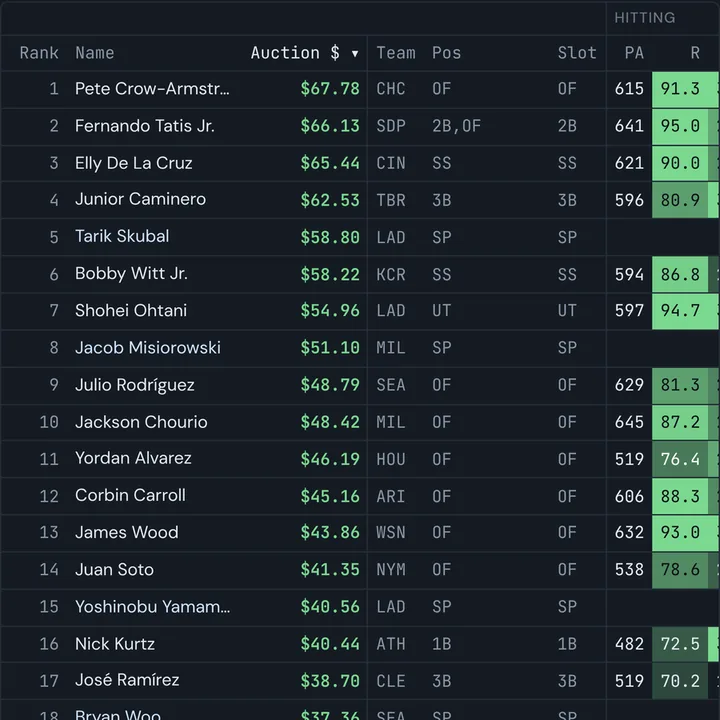
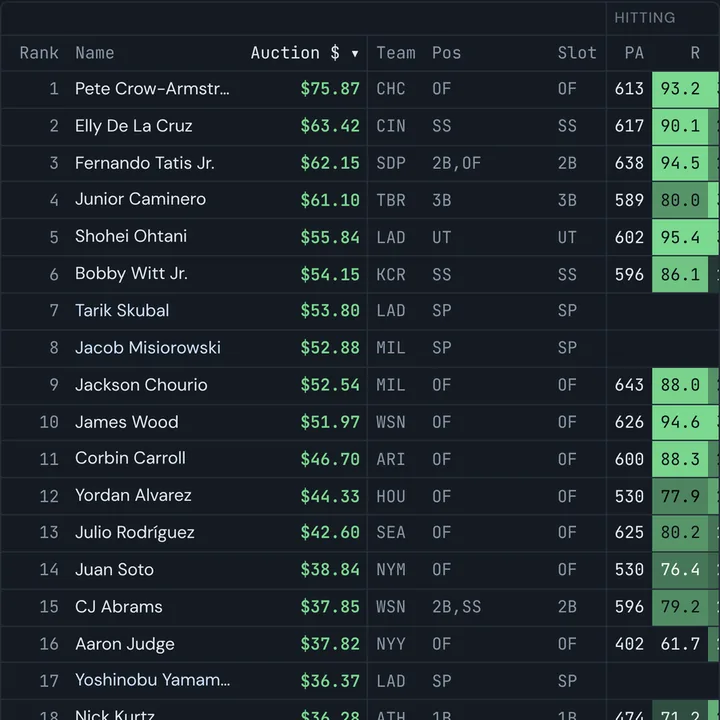
Auction calculator: refresh to the October 13 projections; always revalidate them
The page already loads hitters_auction_ev.csv and pitchers_auction_ev.csv
(on main and live), but fetched them with the browser's default cache
and the files carry no Cache-Control, so a browser could hold an old
copy after an upload. It now fetches with cache: "no-cache": every load
revalidates (If-Modified-Since / If-None-Match), so a new upload shows
on the next one.

The README's figures and the homepage tile are refreshed to today's
_auction_ev projections: Pete Crow-Armstrong first at $75.87, Skubal the
first pitcher at $53.80; a typical Yahoo team now rosters 8 SPs for 6
spots, so weekly locks bind 94% (SPs keep 78-94%) and Monday/Friday 12%
(97-99%); Ohtani $55.84 hitting, $24.06 pitching, $79.90 simultaneous,
one slot $72.68 / $58.16 / $55.87 by lock; C +$12.36 in the Yahoo format.

Claude-Session: https://claude.ai/code/session_01AWedwNEJvEtBDjmJaVtJCN

diff --git a/index.html b/index.html
@@ -162,7 +162,7 @@
 								</article>
 									<article class="style4">
 									<span class="image">
-										<img src="images/tile-auction-calculator.webp?v=8" srcset="images/tile-auction-calculator-720.webp?v=8 720w, images/tile-auction-calculator.webp?v=8 900w" sizes="(max-width: 480px) 100vw, (max-width: 980px) 50vw, 380px" width="900" height="900" alt="SGP auction values for a 12-team Yahoo-format 5x5 league at a 65/35 hitter split, Pete Crow-Armstrong first at $67.78" />
+										<img src="images/tile-auction-calculator.webp?v=9" srcset="images/tile-auction-calculator-720.webp?v=9 720w, images/tile-auction-calculator.webp?v=9 900w" sizes="(max-width: 480px) 100vw, (max-width: 980px) 50vw, 380px" width="900" height="900" alt="SGP auction values for a 12-team Yahoo-format 5x5 league at a 65/35 hitter split, Pete Crow-Armstrong first at $75.87" />
 									</span>
 									<a href="/auction-calculator/">
 										<h2>MLB Auction Calculator</h2>

diff --git a/auction-calculator/app.js b/auction-calculator/app.js
@@ -58,7 +58,8 @@ function status(msg, kind = "") {
 async function loadDefaults() {
   try {
     const [h, p] = await Promise.all(["h", "p"].map(async (k) => {
-      const r = await fetch(DATA + FILES[k], { cache: "default" });
+      // revalidated every load (a 304 when unchanged), so a new upload shows on the next one
+      const r = await fetch(DATA + FILES[k], { cache: "no-cache" });
       if (!r.ok) throw new Error(`${k === "h" ? "hitters" : "pitchers"}: HTTP ${r.status}`);
       return C.readProjections(await r.text());
     }));

diff --git a/auction-calculator/index.html b/auction-calculator/index.html
@@ -287,6 +287,6 @@ table.values{border-collapse:separate; border-spacing:0; width:100%; font-family
   </div>
 </main>
 <div id="tip" role="tooltip" hidden></div>
-<script type="module" src="app.js?v=22"></script>
+<script type="module" src="app.js?v=23"></script>
 </body>
 </html>

diff --git a/README.md b/README.md
@@ -1093,10 +1093,10 @@ start, then in passes until it settles:
 
 The passes stop when the pool doesn't change and no denominator moves 1%; a pool that only swaps
 marginal players back and forth with weights within 3% has settled on the mean of its states; after
-20 passes, the mean of the last two (the page says so). On the 2027 projections (as of October 12)
-the Yahoo format settles in 3 passes for hitters and 5 for pitchers, in about 0.2 s. Its
-denominators: R 22.1, HR 9.9, RBI 23.6, SB 11.2, AVG 13.4 hits; W 3.8, SV 9.2, K 54.2, ERA 9.3
-earned runs, WHIP 14.5 walks + hits.
+20 passes, the mean of the last two (the page says so). On the 2027 projections (as of October 13)
+the Yahoo format settles in 4 passes for hitters and 3 for pitchers, in about 0.2 s. Its
+denominators: R 22.6, HR 10.1, RBI 23.9, SB 11.3, AVG 13.4 hits; W 4.3, SV 9.7, K 59.4, ERA 10.9
+earned runs, WHIP 16.9 walks + hits.
 
 **Dollars.** The drafted players are the ones that fill every team's legal roster: each side's
 lineup slots, plus half the bench each (as BN slots anyone fits) unless **Minimize bench value** is
@@ -1116,11 +1116,11 @@ keeps the player order, and the last drafted player on each side still gets the 
 values** puts both sides on one curve instead, so the split is the values' own. A player no legal
 roster has room for (a 13th catcher when nothing else takes him, say) stays under the min bid; a
 player below the last drafted one is priced at his side's average dollars per SGP, since the curve
-starts at him. On the 2027 projections (as of October 12) the Yahoo format (bench minimized)
+starts at him. On the 2027 projections (as of October 13) the Yahoo format (bench minimized)
 prices its 216 lineup players for $3,060 (12 × $260, less 60 bench spots at $1). At the default
-65/35 and γ = 1.05, Pete Crow-Armstrong is first at $67.78 ($64.63 on a straight line) and Tarik
-Skubal the first pitcher at $58.80, at an average $13.77 per SGP for hitters and $9.53 for pitchers.
-The values make it 56/44 (Skubal first at $73.43); without the playing time fill, 67/33. The fill moves value to part-timers with good
+65/35 and γ = 1.05, Pete Crow-Armstrong is first at $75.87 ($71.94 on a straight line) and Tarik
+Skubal the first pitcher at $53.80, at an average $13.88 per SGP for hitters and $8.92 for pitchers.
+The values make it 54/46 (Skubal first at $69.82); without the playing time fill, 63/37. The fill moves value to part-timers with good
 rates (Byron Buxton, Luis Robert Jr., closers) and away from full-time players near replacement
 rates (Bo Bichette, Luis Arraez, back-end starters).
 
@@ -1151,8 +1151,9 @@ with three; Monday/Friday 0.93 to 1.00. The league's pitching shrinks with it: e
 at his share in the pool rates, the draft's spread and a season's luck, so the SGP denominators move
 too (weekly locks cut team innings about 14% in the spec's simulations), which raises pitchers
 against hitters when the split comes from the values. The shares are set once, from the side valued
-without the lock, and held. The Yahoo format rosters 7 SPs for 6 spots: weekly, they bind in 70% of
-weeks and SPs keep 88–97%; Monday/Friday, 3%, so nothing changes. The lock's ⓘ says what it does in
+without the lock, and held. On the October 13 projections the Yahoo format rosters 8 SPs for 6
+spots: weekly, they bind in 94% of weeks and SPs keep 78–94%; Monday/Friday, in 12% of windows, and
+SPs keep 97–99%. The lock's ⓘ says what it does in
 the league on the page, and an SP's position tooltip his tier and share.
 
 **Two-way players** (the same spec, Task 6). A player in both projection files under one MLBAM id
@@ -1162,8 +1163,8 @@ counting) values both rows on their own sides and shows him as one row, at both 
 **One slot**: one player in one spot, hitter or pitcher, switched whenever lineups lock (the
 **Lineup lock**), each lock window taken as whichever it's worth more as, its hitting or its starts.
 Daily, that's the spec's one-slot daily rule: he pitches his start days when a start is worth more
-than a day's hitting, so he's his hitting less those days (`H × (1 − starts/162)`, about 12% for
-Ohtani's 19 starts) plus all his pitching. Weekly, it's the spec's one-slot weekly rule, and
+than a day's hitting, so he's his hitting less those days (`H × (1 − starts/162)`, about 13% for
+Ohtani's 21 starts) plus all his pitching. Weekly, it's the spec's one-slot weekly rule, and
 Monday/Friday switches at each 4- and 3-day half. A window's games and his starts in it come from
 the spec's schedule simulation in closed form (a turn every 6 team games, or 5 past 27 starts, in a
 182-day season with 20 off days, turns skipped to his projected starts: about 6% of weeks have 2
@@ -1173,10 +1174,11 @@ combined value and his pitcher row leaves the pitcher pool, so each side still d
 spends its dollars; his pitching counts at the pitchers' dollars per SGP, since the hitter split can
 make a pitcher's SGP cheaper than a hitter's, and his windows are chosen in those units, so he's
 never worth less than his hitting alone. The roster spot he frees (the spec's `b`) adds nothing: its
-best bench use is a replacement player, 0 above replacement here. In the default league he's $54.96
-as a hitter and $20.69 as a pitcher split; $75.66 simultaneous; and one slot, $69.39 under daily
-locks, $56.74 under Monday/Friday ones, and $54.97 under weekly ones, where no week's starts beat a
-week of his hitting at the pitchers' price.
+best bench use is a replacement player, 0 above replacement here. In the default league (October 13
+projections) he's $55.84 as a hitter and $24.06 as a pitcher, $79.90 simultaneous; one slot, $72.68
+under daily locks, $58.16 under Monday/Friday ones (78% of his hitting, 60% of his pitching), and
+$55.87 under weekly ones, where he pitches only the weeks his starts are worth more than his hitting
+(11% of his pitching).
 
 **Replacement by lineup slot.** Each side's slots (`teams ×` each slot, plus `teams × bench/2` more
 UT or P when the bench isn't minimized) are filled for the most total value: players in order of
@@ -1191,9 +1193,9 @@ non-starters it could add, so one player's projection doesn't set a position's p
 span is 3; 0 is the single last starter). A player is priced against the lowest replacement level
 among the slots he fits; one no slot takes (a DH when there's no UT) is worth a bench spot at most.
 A position whose starters spill into UT, P or a flex slot is exactly as deep as it. On the 2027
-projections the Yahoo format prices C at +$8.02 and everything else level; CBS (one UT, 5 SP and 2
-RP, no P) has C +$9.94, SP +$1.43, 2B / 3B +$0.48, SS +$0.27; five OF, no UT, 6 SP and 3 RP goes C
-+$8.32, SP +$1.65, 2B / 3B / OF +$0.93, SS +$0.42. Without any position info in the projections,
+projections (as of October 13) the Yahoo format prices C at +$12.36 and everything else level; CBS
+(one UT, 5 SP and 2 RP, no P) has C +$18.17, 2B / 3B +$1.13, SS +$0.99, 1B +$0.53; five OF, no UT,
+6 SP and 3 RP goes C +$14.08, 2B / 3B / OF +$1.42, SS +$0.92. Without any position info in the projections,
 every slot takes anyone.
 
 The league formats set teams, hitter slots and pitcher slots only; budget ($260), bench and scoring
@@ -1250,7 +1252,8 @@ node tools/auction_calculator/locks_checks.mjs hitters_auction_ev.csv pitchers_a
 To update the projections, upload new `hitters_auction_ev.csv` / `pitchers_auction_ev.csv` to the
 bucket's `projections/` folder with the same columns (`Name`, `MLBAMID`, `Team`, `Y! Pos`, then
 the stats, and the `<stat>_p10` / `<stat>_p90` percentiles the season's luck is read from). The page shows how many players each default file has, not where
-it comes from. The zone caches them for four hours; purge their URLs to show them sooner. After
+it comes from. The page revalidates them on every load (a 304 when they haven't changed), so a new
+upload shows on the next one; if the zone ever caches them, purge their URLs. After
 any change to the JavaScript, bump the `?v=` on the script tag in `index.html` and on `app.js`'s
 import of `calc.js`.
 
